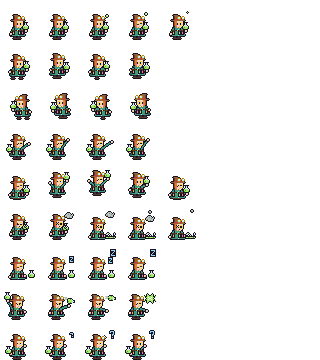
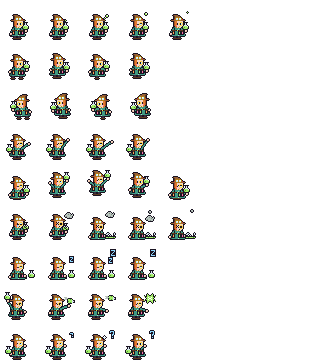
fix(arte): Alquimista — óculos do Mestre dentro da copa do chapéu
Os óculos tinham 8 px e passavam da copa para a direita, cobrindo o contorno e afinando o chapéu.
Agora têm 7 px e assentam na faixa, dentro da copa, que mantém a silhueta dos outros estágios.

diff --git a/herois/alquimista.py b/herois/alquimista.py
@@ -239,7 +239,7 @@ for _e, _s in _SPECS.items():
 
 # grade 15x21 colada 7 à esquerda e 12 acima do topo da túnica (túnica a partir da linha 12, centro na coluna 7;
 # faixa do chapéu na linha 4, cabeça centrada na coluna 8): cinto de couro com três frascos coloridos na cintura;
-# óculos de lente dupla com aro de latão presos na faixa do chapéu
+# óculos de lente dupla com aro de latão presos na faixa do chapéu, dentro da copa (linhas 2-5, colunas 5-11)
 _CINTO = [
     "KddddKGKddddK",
     ".KdK...KdKKdK",
@@ -248,10 +248,10 @@ _CINTO = [
     ".KKK...KKKKKK",
 ]
 _OCULOS = [                                       # aro de latão, sem contorno escuro, para destacar no chapéu
-    ".gg..gg.",
-    "gLWggLWg",
-    "gLLgdLLg",
-    ".gg..gg.",
+    ".gg.gg.",                                    # 7 de largura: cabe dentro da copa sem comer o contorno dela
+    "gLWgLWg",
+    "gLLgLLg",
+    ".gg.gg.",
 ]
 
 
@@ -266,7 +266,7 @@ def _extra(pecas, w=15, h=21):
 
 
 CINTO = _extra(((_CINTO, 1, 15),))
-CINTO_OCULOS = _extra(((_CINTO, 1, 15), (_OCULOS, 7, 1)))
+CINTO_OCULOS = _extra(((_CINTO, 1, 15), (_OCULOS, 5, 2)))
 ESTAGIOS = [
     {"title": "Aprendiz de Alquimia", "floor": 1, "extra": None},
     {"title": "Alquimista", "floor": 4, "extra": CINTO},

diff --git a/tests/test_folha.py b/tests/test_folha.py
@@ -492,6 +492,12 @@ def test_heroi_alquimista():
     # cinto e óculos cabem inteiros no quadro em todos os quadros (inclusive no alto do pulo)
     w, h = len(aq.CINTO_OCULOS[0]), len(aq.CINTO_OCULOS)
     assert all(0 <= a[0] <= 32 - w and 0 <= a[1] <= 32 - h for qs in aq.ANCORA.values() for a in qs)
+    for e, ancs in aq.ANCORA.items():   # os óculos ficam dentro da copa: não cobrem o contorno do chapéu
+        for j, (ax, ay) in enumerate(ancs):
+            for dy, lin in enumerate(aq.CINTO_OCULOS[:8]):
+                for dx, ch in enumerate(lin):
+                    if ch != ".":
+                        assert base[e][j][ay + dy][ax + dx] != "K", (e, j, dx, dy)
     for i in range(3):
         ult = montar.estados(aq, i)["failed"][-1]
         assert sum(ch != "." for l in ult for ch in l) >= 40, i
